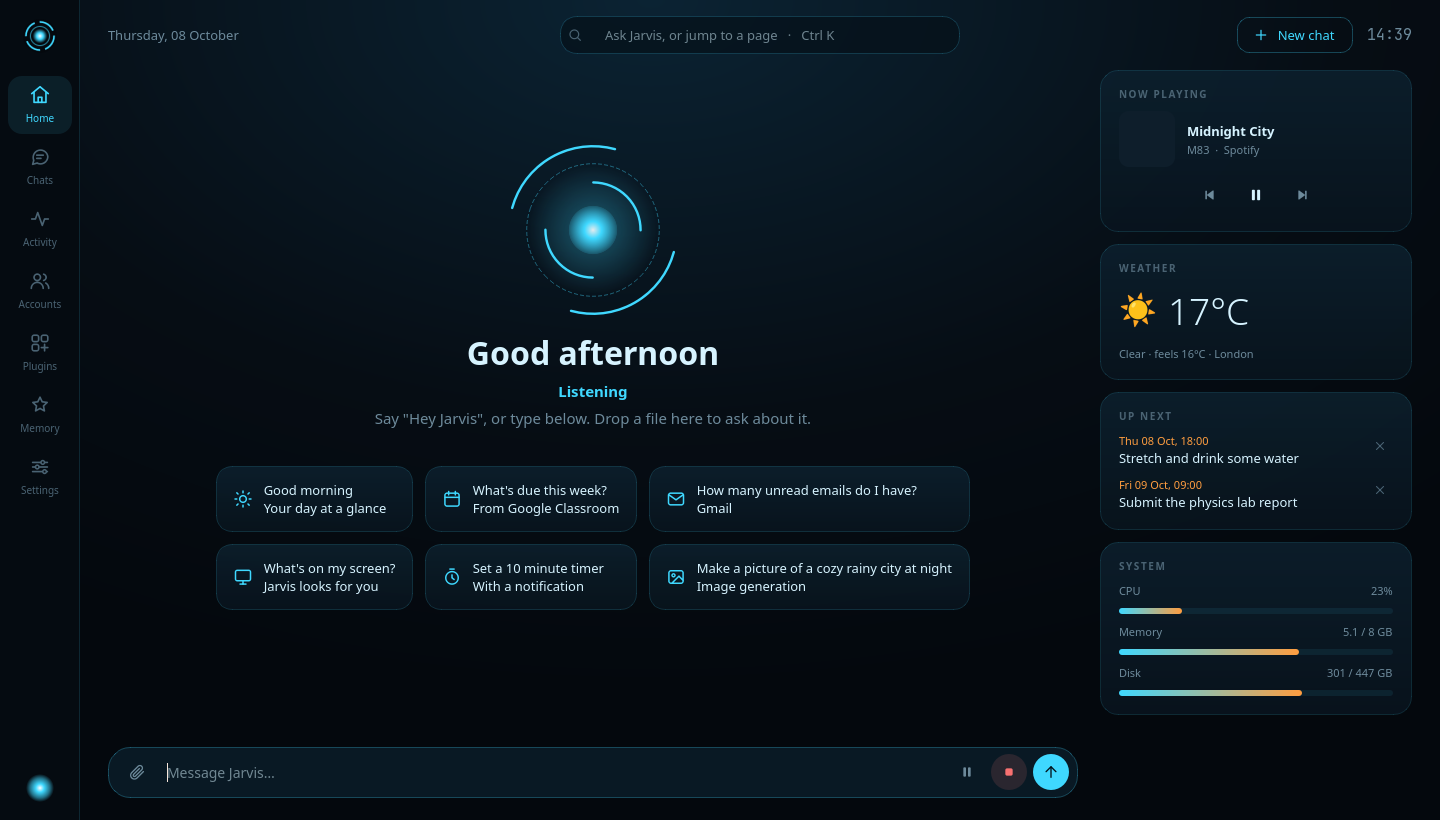
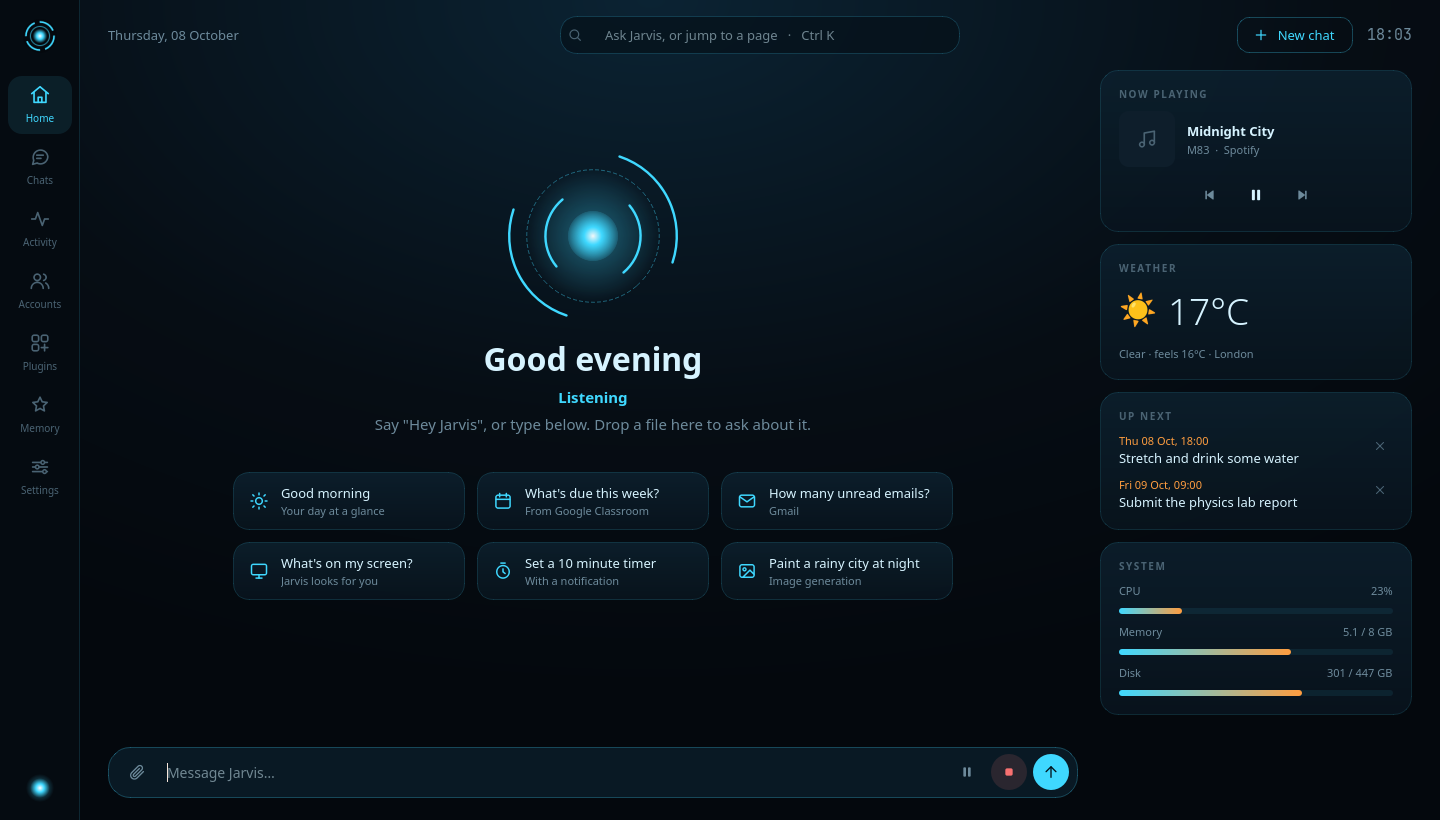
1.2.0: changelog, README and its home screenshot, CLAUDE.md notes

diff --git a/README.md b/README.md
@@ -34,8 +34,8 @@ app with a notch at the top of the screen and a native dashboard window.
   Accounts page or by voice) to *Ask before changes*, *Full access*, *Read only* or *Paused*, and reconnected or
   disconnected from there.
 - **Your desktop**: opens apps and presses their buttons by name through the accessibility interface (AT-SPI on Linux,
-  UI Automation on Windows). It reads the screen, clicks things it finds by description, types, uses shortcuts and
-  manages windows.
+  UI Automation on Windows), browsers and Electron apps such as Discord and VS Code included. It reads the screen,
+  clicks things it finds by description, types, uses shortcuts and manages windows.
 - **Shell**: runs commands for you (bash on Linux, PowerShell on Windows): volume, files, system info, the clipboard.
 - **Background agent**: long jobs (many-step websites, forms) run in the background while you keep talking.
 - **Memory and reminders**: *"Remember that I prefer short answers"*, *"Remind me in 20 minutes to stretch"*.
@@ -108,6 +108,9 @@ the top of the screen.
   **Wake word sensitivity** a little.
 - On speakers, Jarvis doesn't hear itself while it talks, so start talking a moment after it finishes, or use
   headphones. Linux with PipeWire can also turn on **Echo cancelling** (Settings, experimental).
+- On Linux, browsers and Electron apps (Discord, VS Code, Spotify...) only show their buttons to Jarvis when Jarvis
+  starts them. Ones you opened yourself still work, through the screen, which is a little slower. To always get the
+  fast way, start them with `--force-renderer-accessibility` and `ACCESSIBILITY_ENABLED=1`.
 - Everything is logged with timings in Jarvis's data folder (`jarvis.log`).
 
 ## Models

diff --git a/CLAUDE.md b/CLAUDE.md
@@ -25,6 +25,9 @@ jarvis --listen                       # tell a running instance to start listeni
 - The log uses `\r` progress bars on first start (wake-word model downloads), so read it with `tr '\r' '\n'`.
 - Tests should use the real objects (e.g. `jarvis.Speaker()`) rather than hand-made fakes: a fake with an old
   attribute once hid a crash that killed voice after the first wake word.
+- GUI checks without touching the user's screen: render the window with `QT_QPA_PLATFORM=offscreen` and
+  `widget.grab()`, or run apps inside a hidden compositor (`kwin_wayland --virtual --socket NAME`, then start them with
+  `WAYLAND_DISPLAY=NAME`). Apps there still register on the session's AT-SPI bus, so accessibility can be tested too.
 
 ## Architecture
 
@@ -59,7 +62,10 @@ available tool at call time:
 - Input: wdotool/ydotool on Wayland, pynput otherwise.
 - Windows: kdotool on KDE Wayland, pywinctl otherwise.
 - Accessibility: AT-SPI on Linux via `atspi_helper.py` under `/usr/bin/python3` (it needs `gi`); pywinauto UIA on
-  Windows. Both share the same `ask({"cmd": ...})` protocol.
+  Windows. Both share the same `ask({"cmd": ...})` protocol. On Linux, Chromium and Electron apps only expose their
+  page contents when started with `--force-renderer-accessibility` plus `ACCESSIBILITY_ENABLED=1`, and only at
+  startup: `tool_launch` adds both when `system.chromium_based` says so. An app that's open but missing from the tree
+  never appears, so `a11y_wait` only waits for one Jarvis has just started.
 
 Supported targets are Windows and Linux only (no macOS).
 

diff --git a/CHANGELOG.md b/CHANGELOG.md
@@ -1,5 +1,27 @@
 # Changelog
 
+## 1.2.0 — 2026-10-08
+
+### Added
+- Browsers and Electron apps that Jarvis opens (Chrome, Brave, Discord, VS Code, Spotify...) now show
+  their buttons and fields by name, so Jarvis presses them directly instead of reading the screen. It's about 0.2 s per
+  step instead of several seconds.
+
+### Changed
+- Asking for the controls of an app that doesn't show them (a browser or Electron app you opened yourself) fails at
+  once instead of after 3 seconds, and tells Jarvis to use the screen instead.
+- Deleting a conversation, removing a plugin and disconnecting an account ask for a second click instead of a dialog.
+- Cleaner window: suggestion cards with a dimmer hint line in equal columns, proper drop-down arrows, two-letter
+  account badges, a music note when nothing is playing (and cover art from local players), headers on one line, and
+  Chats opens on the newest conversation.
+
+### Fixed
+- Voice requests to change accounts named "Google Tasks", "Google Drive" and similar weren't recognised.
+- The morning briefing could take a minute when an account didn't answer: each part waited its own 20 seconds.
+- Windows: the Start Menu shortcut had an empty icon.
+- Searching Chats read every saved conversation twice.
+- Starting without a key put the same "add your key" message in the chat five times; now it's said once.
+
 ## 1.1.1 — 2026-10-08
 
 ### Fixed
